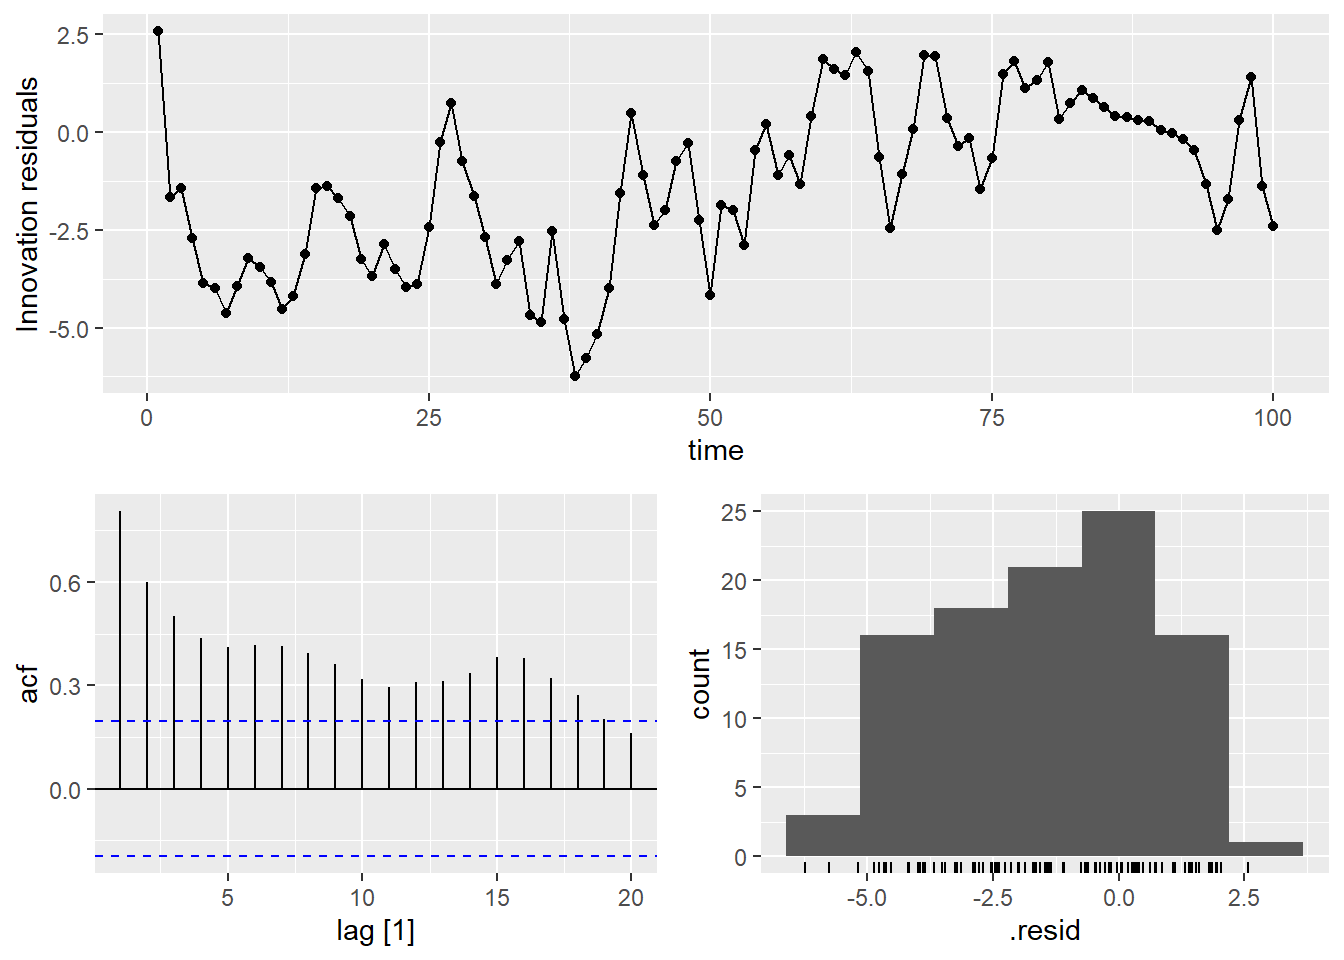
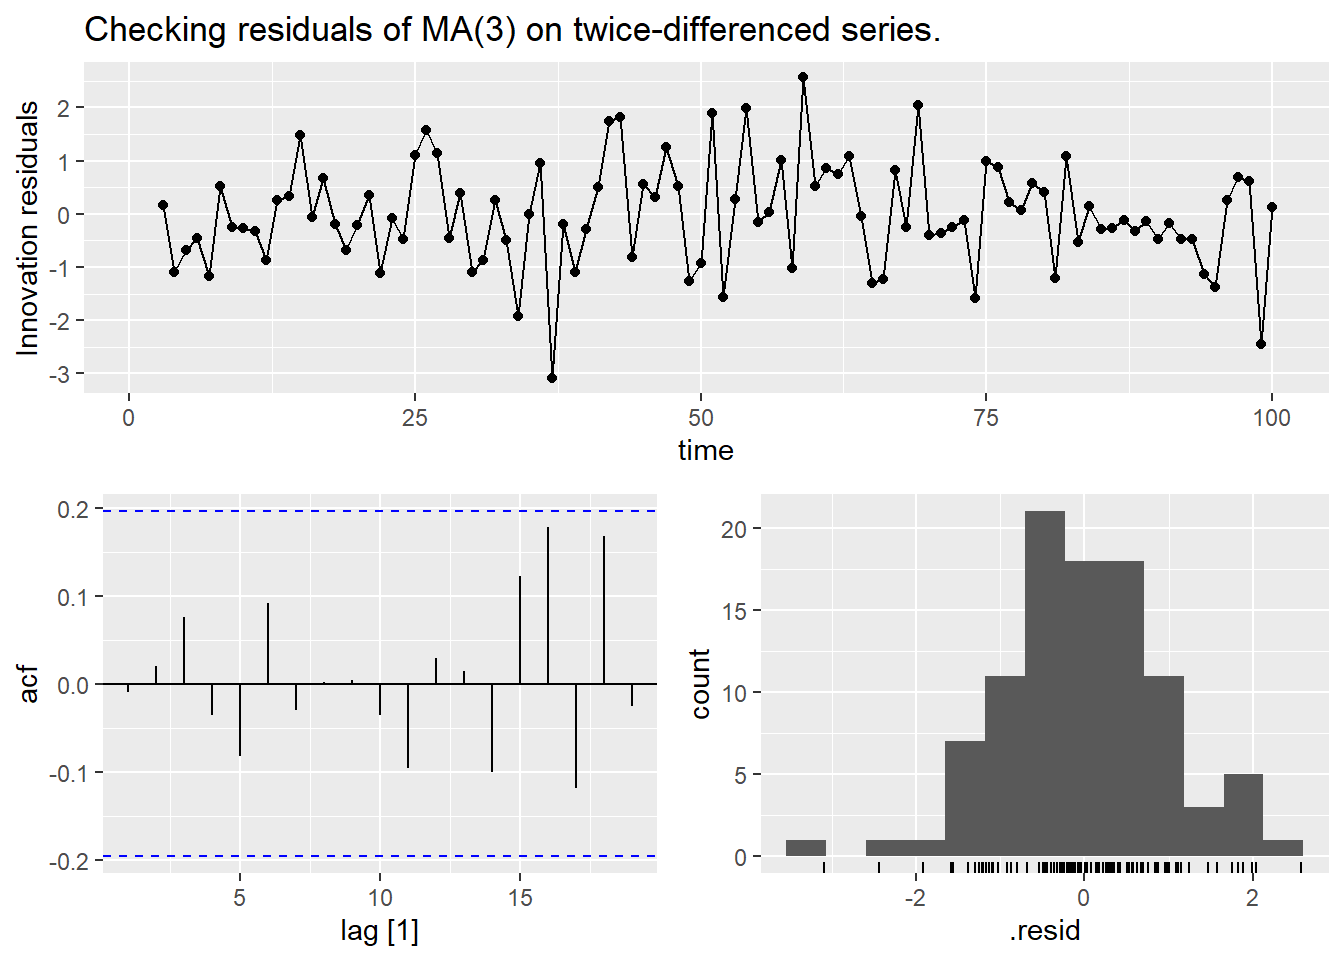
Added table of contents for easier reference during project, added a differencing section, added a forecasting section, updated the estimation section. Overall, the majroity of the workflow for time series analysis using fpp3 should be captured.

diff --git a/fpp3_quickstart_guide.html b/fpp3_quickstart_guide.html
@@ -74,10 +74,26 @@ pre > code.sourceCode > span > a:first-child::before { text-decoration: underlin
 
 </head>
 
-<body class="fullcontent quarto-light">
+<body class="quarto-light">
 
 <div id="quarto-content" class="page-columns page-rows-contents page-layout-article">
-
+<div id="quarto-margin-sidebar" class="sidebar margin-sidebar">
+  <nav id="TOC" role="doc-toc" class="toc-active">
+    <h2 id="toc-title">Table of contents</h2>
+   
+  <ul>
+  <li><a href="#intro" id="toc-intro" class="nav-link active" data-scroll-target="#intro">Intro</a></li>
+  <li><a href="#creating-a-tsibble-object" id="toc-creating-a-tsibble-object" class="nav-link" data-scroll-target="#creating-a-tsibble-object">Creating a tsibble object</a></li>
+  <li><a href="#descriptive-statistics" id="toc-descriptive-statistics" class="nav-link" data-scroll-target="#descriptive-statistics">Descriptive statistics</a></li>
+  <li><a href="#pre-modeling-plots" id="toc-pre-modeling-plots" class="nav-link" data-scroll-target="#pre-modeling-plots">Pre-modeling Plots</a></li>
+  <li><a href="#hypothesis-tests" id="toc-hypothesis-tests" class="nav-link" data-scroll-target="#hypothesis-tests">Hypothesis tests</a></li>
+  <li><a href="#differencing-a-series" id="toc-differencing-a-series" class="nav-link" data-scroll-target="#differencing-a-series">Differencing a series</a></li>
+  <li><a href="#estimation" id="toc-estimation" class="nav-link" data-scroll-target="#estimation">Estimation</a></li>
+  <li><a href="#check-model-residuals" id="toc-check-model-residuals" class="nav-link" data-scroll-target="#check-model-residuals">Check model residuals</a></li>
+  <li><a href="#forecasting" id="toc-forecasting" class="nav-link" data-scroll-target="#forecasting">Forecasting</a></li>
+  </ul>
+</nav>
+</div>
 <main class="content" id="quarto-document-content">
 
 <header id="title-block-header" class="quarto-title-block default">
@@ -247,7 +263,7 @@ pre > code.sourceCode > span > a:first-child::before { text-decoration: underlin
 </div>
 </div>
 </div>
-<p>The argument <code>plot_type</code> allows us to replace the plot on the bottom RHS. For this simple series, we have what we need. But later on when we work with many different series in the same <code>tsibble</code>, the <code>plot_type</code> argument is very helpful because it allows other plots that can help us specify models better later.</p>
+<p>The argument <code>plot_type</code> allows us to replace the plot on the bottom RHS. For this simple series, we have what we need. But later on when we work with seasonal series, the <code>plot_type</code> argument is very helpful because it allows other plots that can help us specify models better later.</p>
 <p>I haven’t seen the IACF produced in an R setting before, but I don’t believe it’s strictly necessary for our purposes.</p>
 </section>
 <section id="hypothesis-tests" class="level2">
@@ -288,51 +304,241 @@ alternative hypothesis: stationary</code></pre>
 </div>
 </div>
 <p>So that’s how we’d do unit root tests for stationarity and the Ljung-Box test to test the null that our series is white noise!</p>
+<p>Since the hypothesis testing for unit roots indicated a need for differencing, let’s see how we do that now.</p>
+</section>
+<section id="differencing-a-series" class="level2">
+<h2 class="anchored" data-anchor-id="differencing-a-series">Differencing a series</h2>
+<p>Explicitly differencing a series for modeling purposes is easily done. We’re simply adding a column to our current <code>tsibble</code> that differences our series using the <code>difference()</code> function within <code>mutate()</code> to add a column to our dataframe.</p>
+<p>We’ll add a twice-differenced series, <code>z_diff2</code> as well just to show how easy it is to do so.</p>
+<div class="cell">
+<div class="sourceCode cell-code" id="cb24"><pre class="sourceCode r code-with-copy"><code class="sourceCode r"><span id="cb24-1"><a href="#cb24-1" aria-hidden="true" tabindex="-1"></a>my_tsibble <span class="ot">&lt;-</span> my_tsibble <span class="sc">|&gt;</span></span>
+<span id="cb24-2"><a href="#cb24-2" aria-hidden="true" tabindex="-1"></a>  <span class="fu">mutate</span>(<span class="at">z_diff1 =</span> <span class="fu">difference</span>(z, <span class="at">lag =</span> <span class="dv">1</span>),</span>
+<span id="cb24-3"><a href="#cb24-3" aria-hidden="true" tabindex="-1"></a>         <span class="at">z_diff2 =</span> <span class="fu">difference</span>(z_diff1))</span>
+<span id="cb24-4"><a href="#cb24-4" aria-hidden="true" tabindex="-1"></a></span>
+<span id="cb24-5"><a href="#cb24-5" aria-hidden="true" tabindex="-1"></a>my_tsibble</span></code><button title="Copy to Clipboard" class="code-copy-button"><i class="bi"></i></button></pre></div>
+<div class="cell-output cell-output-stdout">
+<pre><code># A tsibble: 100 x 4 [1]
+    time      z z_diff1 z_diff2
+   &lt;dbl&gt;  &lt;dbl&gt;   &lt;dbl&gt;   &lt;dbl&gt;
+ 1     1  -73.5   NA     NA    
+ 2     2  -75.2   -1.72  NA    
+ 3     3  -76.7   -1.48   0.240
+ 4     4  -79.4   -2.75  -1.27 
+ 5     5  -83.3   -3.91  -1.16 
+ 6     6  -87.3   -4.03  -0.127
+ 7     7  -92.0   -4.67  -0.635
+ 8     8  -96.0   -3.98   0.692
+ 9     9  -99.2   -3.24   0.733
+10    10 -103.    -3.49  -0.247
+# ℹ 90 more rows</code></pre>
+</div>
+</div>
+<p>Since our previous hypothesis testing and visuals indicated a need for differencing, let’s see what those same actions show now with our differenced series, <code>z_diff1</code>.</p>
+<div class="cell">
+<div class="sourceCode cell-code" id="cb26"><pre class="sourceCode r code-with-copy"><code class="sourceCode r"><span id="cb26-1"><a href="#cb26-1" aria-hidden="true" tabindex="-1"></a>my_tsibble <span class="sc">|&gt;</span></span>
+<span id="cb26-2"><a href="#cb26-2" aria-hidden="true" tabindex="-1"></a>  <span class="fu">gg_tsdisplay</span>(<span class="at">y=</span>z_diff1, <span class="at">plot_type =</span> <span class="st">"partial"</span>) <span class="sc">+</span></span>
+<span id="cb26-3"><a href="#cb26-3" aria-hidden="true" tabindex="-1"></a>  <span class="fu">labs</span>(<span class="at">title =</span> <span class="st">"Series looks closer to stationary"</span>,</span>
+<span id="cb26-4"><a href="#cb26-4" aria-hidden="true" tabindex="-1"></a>       <span class="at">subtitle =</span> <span class="st">"Candidate for AR(4) on differenced series?"</span>)</span></code><button title="Copy to Clipboard" class="code-copy-button"><i class="bi"></i></button></pre></div>
+<div class="cell-output cell-output-stderr">
+<pre><code>Warning: Removed 1 row containing missing values or values outside the scale range
+(`geom_line()`).</code></pre>
+</div>
+<div class="cell-output cell-output-stderr">
+<pre><code>Warning: Removed 1 row containing missing values or values outside the scale range
+(`geom_point()`).</code></pre>
+</div>
+<div class="cell-output-display">
+<div>
+<figure class="figure">
+<p><img src="fpp3_quickstart_guide_files/figure-html/diagnostics%20z_diff1-1.png" class="img-fluid figure-img" width="672"></p>
+</figure>
+</div>
+</div>
+<div class="sourceCode cell-code" id="cb29"><pre class="sourceCode r code-with-copy"><code class="sourceCode r"><span id="cb29-1"><a href="#cb29-1" aria-hidden="true" tabindex="-1"></a><span class="co"># using base fpp3 functions to check H0 of stationarity and white noise</span></span>
+<span id="cb29-2"><a href="#cb29-2" aria-hidden="true" tabindex="-1"></a>my_tsibble <span class="sc">|&gt;</span></span>
+<span id="cb29-3"><a href="#cb29-3" aria-hidden="true" tabindex="-1"></a>  <span class="fu">features</span>(z_diff1, <span class="fu">list</span>(unitroot_kpss, ljung_box))</span></code><button title="Copy to Clipboard" class="code-copy-button"><i class="bi"></i></button></pre></div>
+<div class="cell-output cell-output-stdout">
+<pre><code># A tibble: 1 × 4
+  kpss_stat kpss_pvalue lb_stat lb_pvalue
+      &lt;dbl&gt;       &lt;dbl&gt;   &lt;dbl&gt;     &lt;dbl&gt;
+1      1.51        0.01    72.0         0</code></pre>
+</div>
+<div class="sourceCode cell-code" id="cb31"><pre class="sourceCode r code-with-copy"><code class="sourceCode r"><span id="cb31-1"><a href="#cb31-1" aria-hidden="true" tabindex="-1"></a><span class="co"># ADF test again, too</span></span>
+<span id="cb31-2"><a href="#cb31-2" aria-hidden="true" tabindex="-1"></a>my_tsibble <span class="sc">|&gt;</span></span>
+<span id="cb31-3"><a href="#cb31-3" aria-hidden="true" tabindex="-1"></a>  <span class="fu">filter</span>(<span class="sc">!</span><span class="fu">is.na</span>(z_diff1)) <span class="sc">|&gt;</span></span>
+<span id="cb31-4"><a href="#cb31-4" aria-hidden="true" tabindex="-1"></a>  <span class="fu">pull</span>(z_diff1) <span class="sc">|&gt;</span></span>
+<span id="cb31-5"><a href="#cb31-5" aria-hidden="true" tabindex="-1"></a>  tseries<span class="sc">::</span><span class="fu">adf.test</span>()</span></code><button title="Copy to Clipboard" class="code-copy-button"><i class="bi"></i></button></pre></div>
+<div class="cell-output cell-output-stdout">
+<pre><code>
+    Augmented Dickey-Fuller Test
+
+data:  pull(filter(my_tsibble, !is.na(z_diff1)), z_diff1)
+Dickey-Fuller = -2.6146, Lag order = 4, p-value = 0.3221
+alternative hypothesis: stationary</code></pre>
+</div>
+</div>
+<p>Hypothesis tests indicate non-stationarity and non-white noise of differenced series. Let’s see what this approach looks like on the twice-differenced series, <code>z_diff2</code>.</p>
+<div class="cell">
+<div class="sourceCode cell-code" id="cb33"><pre class="sourceCode r code-with-copy"><code class="sourceCode r"><span id="cb33-1"><a href="#cb33-1" aria-hidden="true" tabindex="-1"></a>my_tsibble <span class="sc">|&gt;</span></span>
+<span id="cb33-2"><a href="#cb33-2" aria-hidden="true" tabindex="-1"></a>  <span class="fu">gg_tsdisplay</span>(<span class="at">y=</span>z_diff2, <span class="at">plot_type =</span> <span class="st">"partial"</span>) <span class="sc">+</span></span>
+<span id="cb33-3"><a href="#cb33-3" aria-hidden="true" tabindex="-1"></a>  <span class="fu">labs</span>(<span class="at">title =</span> <span class="st">"Series looks even closer to stationary"</span>,</span>
+<span id="cb33-4"><a href="#cb33-4" aria-hidden="true" tabindex="-1"></a>       <span class="at">subtitle =</span> <span class="st">"Candidate for MA(3) on twice-differenced series?"</span>)</span></code><button title="Copy to Clipboard" class="code-copy-button"><i class="bi"></i></button></pre></div>
+<div class="cell-output cell-output-stderr">
+<pre><code>Warning: Removed 2 rows containing missing values or values outside the scale range
+(`geom_line()`).</code></pre>
+</div>
+<div class="cell-output cell-output-stderr">
+<pre><code>Warning: Removed 2 rows containing missing values or values outside the scale range
+(`geom_point()`).</code></pre>
+</div>
+<div class="cell-output-display">
+<div>
+<figure class="figure">
+<p><img src="fpp3_quickstart_guide_files/figure-html/diagnostics%20z_diff2-1.png" class="img-fluid figure-img" width="672"></p>
+</figure>
+</div>
+</div>
+<div class="sourceCode cell-code" id="cb36"><pre class="sourceCode r code-with-copy"><code class="sourceCode r"><span id="cb36-1"><a href="#cb36-1" aria-hidden="true" tabindex="-1"></a><span class="co"># using base fpp3 functions to check H0 of stationarity and white noise</span></span>
+<span id="cb36-2"><a href="#cb36-2" aria-hidden="true" tabindex="-1"></a>my_tsibble <span class="sc">|&gt;</span></span>
+<span id="cb36-3"><a href="#cb36-3" aria-hidden="true" tabindex="-1"></a>  <span class="fu">features</span>(z_diff2, <span class="fu">list</span>(unitroot_kpss, ljung_box))</span></code><button title="Copy to Clipboard" class="code-copy-button"><i class="bi"></i></button></pre></div>
+<div class="cell-output cell-output-stdout">
+<pre><code># A tibble: 1 × 4
+  kpss_stat kpss_pvalue lb_stat lb_pvalue
+      &lt;dbl&gt;       &lt;dbl&gt;   &lt;dbl&gt;     &lt;dbl&gt;
+1    0.0473         0.1    2.98    0.0844</code></pre>
+</div>
+<div class="sourceCode cell-code" id="cb38"><pre class="sourceCode r code-with-copy"><code class="sourceCode r"><span id="cb38-1"><a href="#cb38-1" aria-hidden="true" tabindex="-1"></a><span class="co"># ADF test again, too</span></span>
+<span id="cb38-2"><a href="#cb38-2" aria-hidden="true" tabindex="-1"></a>my_tsibble <span class="sc">|&gt;</span></span>
+<span id="cb38-3"><a href="#cb38-3" aria-hidden="true" tabindex="-1"></a>  <span class="fu">filter</span>(<span class="sc">!</span><span class="fu">is.na</span>(z_diff2)) <span class="sc">|&gt;</span></span>
+<span id="cb38-4"><a href="#cb38-4" aria-hidden="true" tabindex="-1"></a>  <span class="fu">pull</span>(z_diff1) <span class="sc">|&gt;</span></span>
+<span id="cb38-5"><a href="#cb38-5" aria-hidden="true" tabindex="-1"></a>  tseries<span class="sc">::</span><span class="fu">adf.test</span>() <span class="co"># best practice is to not exceed 2 differences</span></span></code><button title="Copy to Clipboard" class="code-copy-button"><i class="bi"></i></button></pre></div>
+<div class="cell-output cell-output-stdout">
+<pre><code>
+    Augmented Dickey-Fuller Test
+
+data:  pull(filter(my_tsibble, !is.na(z_diff2)), z_diff1)
+Dickey-Fuller = -2.5208, Lag order = 4, p-value = 0.3611
+alternative hypothesis: stationary</code></pre>
+</div>
+</div>
+<p>So the models we’ll try are MA(3) on twice-differenced series, an AR(5) and we’ll also try an ARMA(1,1) just because we can.</p>
 </section>
 <section id="estimation" class="level2">
 <h2 class="anchored" data-anchor-id="estimation">Estimation</h2>
-<p>We can fit models for estimation as follows.</p>
+<p>We can fit models for estimation as follows. We use <code>report()</code> <strong>on the model table with all the models</strong> to look at GOF statistics for all the models upfront.</p>
 <div class="cell">
-<div class="sourceCode cell-code" id="cb24"><pre class="sourceCode r code-with-copy"><code class="sourceCode r"><span id="cb24-1"><a href="#cb24-1" aria-hidden="true" tabindex="-1"></a>ar1 <span class="ot">&lt;-</span> my_tsibble <span class="sc">|&gt;</span></span>
-<span id="cb24-2"><a href="#cb24-2" aria-hidden="true" tabindex="-1"></a>  <span class="fu">model</span>(<span class="at">ar1 =</span> <span class="fu">ARIMA</span>(z <span class="sc">~</span> <span class="dv">1</span> <span class="sc">+</span> <span class="fu">pdq</span>(<span class="dv">1</span>, <span class="dv">0</span>, <span class="dv">0</span>)))</span>
-<span id="cb24-3"><a href="#cb24-3" aria-hidden="true" tabindex="-1"></a></span>
-<span id="cb24-4"><a href="#cb24-4" aria-hidden="true" tabindex="-1"></a><span class="co"># view of model</span></span>
-<span id="cb24-5"><a href="#cb24-5" aria-hidden="true" tabindex="-1"></a>ar1 <span class="sc">|&gt;</span> <span class="fu">report</span>()</span></code><button title="Copy to Clipboard" class="code-copy-button"><i class="bi"></i></button></pre></div>
-<div class="cell-output cell-output-stdout">
-<pre><code>Series: z 
-Model: ARIMA(1,0,0) w/ mean 
-
-Coefficients:
-         ar1  constant
-      0.9993   -0.0954
-s.e.  0.0009    0.0447
-
-sigma^2 estimated as 6.365:  log likelihood=-236.74
-AIC=479.47   AICc=479.72   BIC=487.29</code></pre>
+<div class="sourceCode cell-code" id="cb40"><pre class="sourceCode r code-with-copy"><code class="sourceCode r"><span id="cb40-1"><a href="#cb40-1" aria-hidden="true" tabindex="-1"></a>model_set <span class="ot">&lt;-</span> my_tsibble <span class="sc">|&gt;</span></span>
+<span id="cb40-2"><a href="#cb40-2" aria-hidden="true" tabindex="-1"></a>  <span class="fu">model</span>(</span>
+<span id="cb40-3"><a href="#cb40-3" aria-hidden="true" tabindex="-1"></a>    <span class="at">ar4 =</span> <span class="fu">ARIMA</span>(z_diff2 <span class="sc">~</span> <span class="dv">1</span> <span class="sc">+</span> <span class="fu">pdq</span>(<span class="dv">5</span>, <span class="dv">0</span>, <span class="dv">0</span>)),</span>
+<span id="cb40-4"><a href="#cb40-4" aria-hidden="true" tabindex="-1"></a>    <span class="at">ma3 =</span> <span class="fu">ARIMA</span>(z_diff2 <span class="sc">~</span> <span class="dv">1</span> <span class="sc">+</span> <span class="fu">pdq</span>(<span class="dv">0</span>, <span class="dv">0</span>, <span class="dv">3</span>)),</span>
+<span id="cb40-5"><a href="#cb40-5" aria-hidden="true" tabindex="-1"></a>    <span class="at">arma11 =</span> <span class="fu">ARIMA</span>(z_diff2 <span class="sc">~</span> <span class="dv">1</span> <span class="sc">+</span> <span class="fu">pdq</span>(<span class="dv">1</span>, <span class="dv">0</span>, <span class="dv">1</span>))</span>
+<span id="cb40-6"><a href="#cb40-6" aria-hidden="true" tabindex="-1"></a>    )</span>
+<span id="cb40-7"><a href="#cb40-7" aria-hidden="true" tabindex="-1"></a></span>
+<span id="cb40-8"><a href="#cb40-8" aria-hidden="true" tabindex="-1"></a>model_set <span class="sc">|&gt;</span> <span class="fu">report</span>()</span></code><button title="Copy to Clipboard" class="code-copy-button"><i class="bi"></i></button></pre></div>
+<div class="cell-output cell-output-stderr">
+<pre><code>Warning in report.mdl_df(model_set): Model reporting is only supported for
+individual models, so a glance will be shown. To see the report for a specific
+model, use `select()` and `filter()` to identify a single model.</code></pre>
 </div>
-<div class="sourceCode cell-code" id="cb26"><pre class="sourceCode r code-with-copy"><code class="sourceCode r"><span id="cb26-1"><a href="#cb26-1" aria-hidden="true" tabindex="-1"></a><span class="co"># pull AIC, BIC, etc</span></span>
-<span id="cb26-2"><a href="#cb26-2" aria-hidden="true" tabindex="-1"></a>ar1 <span class="sc">|&gt;</span> <span class="fu">glance</span>()</span></code><button title="Copy to Clipboard" class="code-copy-button"><i class="bi"></i></button></pre></div>
 <div class="cell-output cell-output-stdout">
-<pre><code># A tibble: 1 × 8
+<pre><code># A tibble: 3 × 8
   .model sigma2 log_lik   AIC  AICc   BIC ar_roots  ma_roots 
   &lt;chr&gt;   &lt;dbl&gt;   &lt;dbl&gt; &lt;dbl&gt; &lt;dbl&gt; &lt;dbl&gt; &lt;list&gt;    &lt;list&gt;   
-1 ar1      6.36   -237.  479.  480.  487. &lt;cpl [1]&gt; &lt;cpl [0]&gt;</code></pre>
+1 ar4     1.01    -138.  290.  291.  308. &lt;cpl [5]&gt; &lt;cpl [0]&gt;
+2 ma3     0.975   -137.  285.  285.  298. &lt;cpl [0]&gt; &lt;cpl [3]&gt;
+3 arma11  1.17    -146.  301.  301.  311. &lt;cpl [1]&gt; &lt;cpl [1]&gt;</code></pre>
 </div>
 </div>
-<p>We don’t get the t-values and p-values by default. We’d need to do those manually. If we end up needing them later, I’ll incorporate how to grab those.</p>
+<p>We can view test statistics and p-values as follows. This must be done for one model at a time.</p>
+<div class="cell">
+<div class="sourceCode cell-code" id="cb43"><pre class="sourceCode r code-with-copy"><code class="sourceCode r"><span id="cb43-1"><a href="#cb43-1" aria-hidden="true" tabindex="-1"></a>model_set <span class="sc">|&gt;</span> <span class="fu">select</span>(ma3) <span class="sc">|&gt;</span> <span class="fu">report</span>() <span class="sc">|&gt;</span> <span class="fu">coef</span>()</span></code><button title="Copy to Clipboard" class="code-copy-button"><i class="bi"></i></button></pre></div>
+<div class="cell-output cell-output-stdout">
+<pre><code>Series: z_diff2 
+Model: ARIMA(0,0,3) w/ mean 
+
+Coefficients:
+         ma1      ma2      ma3  constant
+      0.2293  -0.6138  -0.3207    0.0283
+s.e.  0.1039   0.0863   0.1096    0.0323
+
+sigma^2 estimated as 0.9746:  log likelihood=-137.4
+AIC=284.8   AICc=285.44   BIC=297.83</code></pre>
+</div>
+<div class="cell-output cell-output-stdout">
+<pre><code># A tibble: 4 × 6
+  .model term     estimate std.error statistic  p.value
+  &lt;chr&gt;  &lt;chr&gt;       &lt;dbl&gt;     &lt;dbl&gt;     &lt;dbl&gt;    &lt;dbl&gt;
+1 ma3    ma1        0.229     0.104      2.21  2.97e- 2
+2 ma3    ma2       -0.614     0.0863    -7.11  1.91e-10
+3 ma3    ma3       -0.321     0.110     -2.93  4.26e- 3
+4 ma3    constant   0.0283    0.0323     0.874 3.84e- 1</code></pre>
+</div>
+</div>
 </section>
 <section id="check-model-residuals" class="level2">
 <h2 class="anchored" data-anchor-id="check-model-residuals">Check model residuals</h2>
 <p>Finally, we can check residuals as follows.</p>
 <div class="cell">
-<div class="sourceCode cell-code" id="cb28"><pre class="sourceCode r code-with-copy"><code class="sourceCode r"><span id="cb28-1"><a href="#cb28-1" aria-hidden="true" tabindex="-1"></a>ar1 <span class="sc">|&gt;</span></span>
-<span id="cb28-2"><a href="#cb28-2" aria-hidden="true" tabindex="-1"></a>  <span class="fu">gg_tsresiduals</span>()</span></code><button title="Copy to Clipboard" class="code-copy-button"><i class="bi"></i></button></pre></div>
+<div class="sourceCode cell-code" id="cb46"><pre class="sourceCode r code-with-copy"><code class="sourceCode r"><span id="cb46-1"><a href="#cb46-1" aria-hidden="true" tabindex="-1"></a>model_set <span class="sc">|&gt;</span></span>
+<span id="cb46-2"><a href="#cb46-2" aria-hidden="true" tabindex="-1"></a>  <span class="fu">select</span>(ma3) <span class="sc">|&gt;</span> </span>
+<span id="cb46-3"><a href="#cb46-3" aria-hidden="true" tabindex="-1"></a>  <span class="fu">gg_tsresiduals</span>() <span class="sc">+</span></span>
+<span id="cb46-4"><a href="#cb46-4" aria-hidden="true" tabindex="-1"></a>  <span class="fu">labs</span>(<span class="at">title =</span> <span class="st">"Checking residuals of MA(3) on twice-differenced series."</span>)</span></code><button title="Copy to Clipboard" class="code-copy-button"><i class="bi"></i></button></pre></div>
+<div class="cell-output cell-output-stderr">
+<pre><code>Warning: Removed 2 rows containing missing values or values outside the scale range
+(`geom_line()`).</code></pre>
+</div>
+<div class="cell-output cell-output-stderr">
+<pre><code>Warning: Removed 2 rows containing missing values or values outside the scale range
+(`geom_point()`).</code></pre>
+</div>
+<div class="cell-output cell-output-stderr">
+<pre><code>Warning: Removed 2 rows containing non-finite outside the scale range
+(`stat_bin()`).</code></pre>
+</div>
 <div class="cell-output-display">
 <div>
 <figure class="figure">
 <p><img src="fpp3_quickstart_guide_files/figure-html/model%20residuals-1.png" class="img-fluid figure-img" width="672"></p>
 </figure>
 </div>
+</div>
+<div class="sourceCode cell-code" id="cb50"><pre class="sourceCode r code-with-copy"><code class="sourceCode r"><span id="cb50-1"><a href="#cb50-1" aria-hidden="true" tabindex="-1"></a>model_set <span class="sc">|&gt;</span></span>
+<span id="cb50-2"><a href="#cb50-2" aria-hidden="true" tabindex="-1"></a>  <span class="fu">select</span>(ma3) <span class="sc">|&gt;</span></span>
+<span id="cb50-3"><a href="#cb50-3" aria-hidden="true" tabindex="-1"></a>  <span class="fu">augment</span>() <span class="sc">|&gt;</span></span>
+<span id="cb50-4"><a href="#cb50-4" aria-hidden="true" tabindex="-1"></a>  <span class="fu">features</span>(.innov, ljung_box)</span></code><button title="Copy to Clipboard" class="code-copy-button"><i class="bi"></i></button></pre></div>
+<div class="cell-output cell-output-stdout">
+<pre><code># A tibble: 1 × 3
+  .model lb_stat lb_pvalue
+  &lt;chr&gt;    &lt;dbl&gt;     &lt;dbl&gt;
+1 ma3    0.00962     0.922</code></pre>
+</div>
+</div>
+<p>Of all the models, the MA(3) on the twice-differenced series shows the best GOF statistics and the residuals appear to be white-noise based on graphical inspection and hypothesis testing. So we’d select this model for forecasting.</p>
+</section>
+<section id="forecasting" class="level2">
+<h2 class="anchored" data-anchor-id="forecasting">Forecasting</h2>
+<p>We can create forecasts with our models using the <code>forecast()</code> function with argument <code>h</code> that says how many points into the future we want to forecast to.</p>
+<p>Below we forecast 10 points into the future on the 3 models we fit. If we only want our preferred model’s forecast, we’d simply select that specific model prior to forecasting. We could also just forecast and do <code>filter(.model == "best_model")</code>.</p>
+<div class="cell">
+<div class="sourceCode cell-code" id="cb52"><pre class="sourceCode r code-with-copy"><code class="sourceCode r"><span id="cb52-1"><a href="#cb52-1" aria-hidden="true" tabindex="-1"></a>model_set <span class="sc">|&gt;</span></span>
+<span id="cb52-2"><a href="#cb52-2" aria-hidden="true" tabindex="-1"></a>  <span class="fu">forecast</span>(<span class="at">h =</span> <span class="dv">10</span>)</span></code><button title="Copy to Clipboard" class="code-copy-button"><i class="bi"></i></button></pre></div>
+<div class="cell-output cell-output-stdout">
+<pre><code># A fable: 30 x 4 [1]
+# Key:     .model [3]
+   .model  time
+   &lt;chr&gt;  &lt;dbl&gt;
+ 1 ar4      101
+ 2 ar4      102
+ 3 ar4      103
+ 4 ar4      104
+ 5 ar4      105
+ 6 ar4      106
+ 7 ar4      107
+ 8 ar4      108
+ 9 ar4      109
+10 ar4      110
+# ℹ 20 more rows
+# ℹ 2 more variables: z_diff2 &lt;dist&gt;, .mean &lt;dbl&gt;</code></pre>
 </div>
 </div>
 </section>
